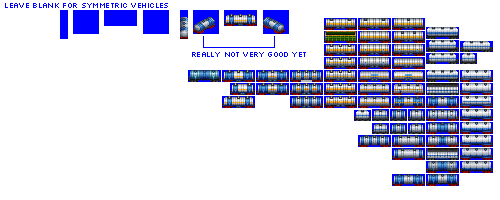
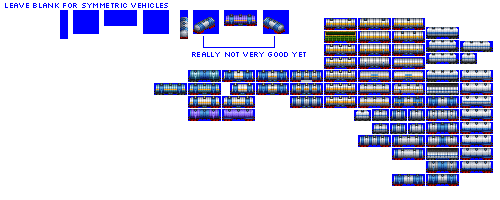
Change: add chlorine recolour to cryo tanks, apply to gen 6C as test

Changed region(s): [[0.3, 0.39, 0.51, 0.63], [0.45, 0.06, 0.51, 0.12]]

diff --git a/src/gestalt_graphics/graphics_constants.py b/src/gestalt_graphics/graphics_constants.py
@@ -19,60 +19,59 @@ spritesheet_width = 425
 
 # !! unfinished - copy of tanker remaps, needs remapping to silo cargos
 silo_livery_recolour_maps = (("QLME", {136: 1, 137: 2, 138: 3, 139: 4,
-                                         140: 5, 141: 6, 142: 7, 143: 8}),  # see note on oil above
-                               # see note on DFLT above
-                               ("DFLT", {136: 16, 137: 17, 138: 18, 139: 19,
-                                         140: 20, 141: 21, 142: 22, 143: 23}),
-                               ("SAND", {136: 62, 137: 63, 138: 64, 139: 65,
-                                         140: 66, 141: 67, 142: 68, 143: 69}),
-                               ("CHLO", {136: 154, 137: 155, 138: 156, 139: 157,
-                                         140: 158, 141: 159, 142: 160, 143: 161}),
-                               ("SALT", {136: 8, 137: 9, 138: 10, 139: 11,
-                                         140: 12, 141: 13, 142: 14, 143: 15}),
-                               ("RUBR", {136: 40, 137: 41, 138: 42, 139: 43,
-                                         140: 44, 141: 45, 142: 46, 143: 47}),
-                               ("CMNT", {136: 16, 137: 17, 138: 18, 139: 19,
-                                         140: 20, 141: 21, 142: 22, 143: 23}))
+                                       140: 5, 141: 6, 142: 7, 143: 8}),  # see note on oil above
+                             ("DFLT", {136: 16, 137: 17, 138: 18, 139: 19,
+                                       140: 20, 141: 21, 142: 22, 143: 23}),
+                             ("SAND", {136: 62, 137: 63, 138: 64, 139: 65,
+                                       140: 66, 141: 67, 142: 68, 143: 69}),
+                             ("CHLO", {136: 154, 137: 155, 138: 156, 139: 157,
+                                       140: 158, 141: 159, 142: 160, 143: 161}),
+                             ("SALT", {136: 8, 137: 9, 138: 10, 139: 11,
+                                       140: 12, 141: 13, 142: 14, 143: 15}),
+                             ("RUBR", {136: 40, 137: 41, 138: 42, 139: 43,
+                                       140: 44, 141: 45, 142: 46, 143: 47}),
+                             ("CMNT", {136: 16, 137: 17, 138: 18, 139: 19,
+                                       140: 20, 141: 21, 142: 22, 143: 23}))
 
-box_livery_recolour_maps = (# see note on DFLT above
-                           ("DFLT", {136: CC1, 137: CC1+1, 138: CC1+2, 139: CC1+3,
-                                     140: CC1+4, 141: CC1+5, 142: CC1+6, 143: CC1+7,
-                                     40: CC1, 41: CC1+1, 42: CC1+2, 43: CC1+3,
-                                     44: CC1+4, 45: CC1+5, 46: CC1+6, 47: CC1+7,
-                                     CC2: CC1, CC2+1: CC1+1, CC2+2: CC1+2, CC2+3: CC1+3,
-                                     CC2+4: CC1+4, CC2+5: CC1+5, CC2+6: CC1+6, CC2+7: CC1+7}),)
+box_livery_recolour_maps = (("DFLT", {136: CC1, 137: CC1+1, 138: CC1+2, 139: CC1+3,
+                                      140: CC1+4, 141: CC1+5, 142: CC1+6, 143: CC1+7,
+                                      40: CC1, 41: CC1+1, 42: CC1+2, 43: CC1+3,
+                                      44: CC1+4, 45: CC1+5, 46: CC1+6, 47: CC1+7,
+                                      CC2: CC1, CC2+1: CC1+1, CC2+2: CC1+2, CC2+3: CC1+3,
+                                      CC2+4: CC1+4, CC2+5: CC1+5, CC2+6: CC1+6, CC2+7: CC1+7}),)
 
 caboose_livery_recolour_maps = (# DFLT can be used twice here with no problems, it's not a unique key
-                               ("DFLT", {136: CC1, 137: CC1+1, 138: CC1+2, 139: CC1+3,
-                                        140: CC1+4, 141: CC1+5, 142: CC1+6, 143: CC1+7,
-                                        40: CC2, 41: CC2+1, 42: CC2+2, 43: CC2+3,
-                                        44: CC2+4, 45: CC2+5, 46: CC2+6, 47: CC2+7}),
-                               ("DFLT", {136: CC2, 137: CC2+1, 138: CC2+2, 139: CC2+3,
-                                         140: CC2+4, 141: CC2+5, 142: CC2+6, 143: CC2+7,
-                                         40: CC1, 41: CC1+1, 42: CC1+2, 43: CC1+3,
-                                         44: CC1+4, 45: CC1+5, 46: CC1+6, 47: CC1+7}),)
+                                ("DFLT", {136: CC1, 137: CC1+1, 138: CC1+2, 139: CC1+3,
+                                          140: CC1+4, 141: CC1+5, 142: CC1+6, 143: CC1+7,
+                                          40: CC2, 41: CC2+1, 42: CC2+2, 43: CC2+3,
+                                          44: CC2+4, 45: CC2+5, 46: CC2+6, 47: CC2+7}),
+                                ("DFLT", {136: CC2, 137: CC2+1, 138: CC2+2, 139: CC2+3,
+                                          140: CC2+4, 141: CC2+5, 142: CC2+6, 143: CC2+7,
+                                          40: CC1, 41: CC1+1, 42: CC1+2, 43: CC1+3,
+                                          44: CC1+4, 45: CC1+5, 46: CC1+6, 47: CC1+7}),)
 
-fruit_veg_livery_recolour_maps = (# see note on DFLT above
-                                 ("DFLT", {136: CC2, 137: CC2+1, 138: CC2+2, 139: CC2+3,
-                                           140: CC2+4, 141: CC2+5, 142: CC2+6, 143: CC2+7,
-                                           40: 71, 41: 72, 42: 73, 43: 74,
-                                           44: 75, 45: 77, 46: 78, 47: 79,
-                                           CC1: 71, CC1+1: 72, CC1+2: 73, CC1+3: 74,
-                                           CC1+4: 75, CC1+5: 77, CC1+6: 78, CC1+7: 79}),)
+cryo_tank_car_livery_recolour_maps = (("DFLT", {136: 5, 137: 7, 138: 9, 139: 11,
+                                                140: 12, 141: 13, 142: 14, 143: 15}),
+                                      ("CHLO", {136: 154, 137: 155, 138: 157, 139: 158,
+                                                140: 159, 141: 159, 142: 160, 143: 161}),)
 
-refrigerated_livery_recolour_maps = (# see note on DFLT above
-                                    ("DFLT", {136: 18, 137: 19, 138: 20, 139: 21,
-                                              140: 22, 141: 13, 142: 14, 143: 15,
-                                              40: 18, 41: 19, 42: 20, 43: 21,
-                                              44: 22, 45: 13, 46: 14, 47: 15,
-                                              CC2: CC1, CC2+1: CC1+1, CC2+2: CC1+2, CC2+3: CC1+3,
-                                              CC2+4: CC1+4, CC2+5: CC1+5, CC2+6: CC1+6, CC2+7: CC1+7}),)
+edibles_tank_car_livery_recolour_maps = (("DFLT", {}),)
 
-livestock_livery_recolour_maps = (# see note on DFLT above
-                                 ("DFLT", body_recolour_CC2),)
+fruit_veg_livery_recolour_maps = (("DFLT", {136: CC2, 137: CC2+1, 138: CC2+2, 139: CC2+3,
+                                            140: CC2+4, 141: CC2+5, 142: CC2+6, 143: CC2+7,
+                                            40: 71, 41: 72, 42: 73, 43: 74,
+                                            44: 75, 45: 77, 46: 78, 47: 79,
+                                            CC1: 71, CC1+1: 72, CC1+2: 73, CC1+3: 74,
+                                            CC1+4: 75, CC1+5: 77, CC1+6: 78, CC1+7: 79}),)
 
-edibles_tank_car_livery_recolour_maps = (# see note on DFLT above
-                                        ("DFLT", {}),)
+refrigerated_livery_recolour_maps = (("DFLT", {136: 18, 137: 19, 138: 20, 139: 21,
+                                               140: 22, 141: 13, 142: 14, 143: 15,
+                                               40: 18, 41: 19, 42: 20, 43: 21,
+                                               44: 22, 45: 13, 46: 14, 47: 15,
+                                               CC2: CC1, CC2+1: CC1+1, CC2+2: CC1+2, CC2+3: CC1+3,
+                                               CC2+4: CC1+4, CC2+5: CC1+5, CC2+6: CC1+6, CC2+7: CC1+7}),)
+
+livestock_livery_recolour_maps = (("DFLT", body_recolour_CC2),)
 
 # Containers
 # !! simple recolouring, not cargo specific.  May need work ??  Could be cargo-specific??

diff --git a/src/train.py b/src/train.py
@@ -998,7 +998,7 @@ class CryoTankCarConsist(CarConsist):
         # CC is swapped randomly (player can't choose), but also swap base livery on flip (player can choose
         self.allow_flip = True
         # Graphics configuration
-        self.gestalt_graphics = GestaltGraphicsCargoSpecificLivery(recolour_maps=polar_fox.constants.tanker_livery_recolour_maps)
+        self.gestalt_graphics = GestaltGraphicsCargoSpecificLivery(recolour_maps=graphics_constants.cryo_tank_car_livery_recolour_maps)
 
 
 class EdiblesTankCarConsist(CarConsist):
